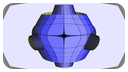
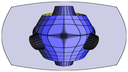
publish

diff --git a/_posts/2012-03-17-barrel-distortion.md b/_posts/2012-03-17-barrel-distortion.md
@@ -1,0 +1,90 @@
+---
+layout: page
+tags : [opengl]
+description : "Playing with barrel distortion."
+thumbnail : Distortion-masked.png
+---
+{% include JB/setup %}
+
+**Note: the OpenGL code used to generate these screenshots lives in [this github project](http://github.com/prideout/distortion) for your enjoyment.**
+
+### Fisheye Lens
+
+Barrel distortion simulates a fisheye lens by changing the magnification factor according to polar distance.  Often the magnification is proportional to the squared distance.  Here's a GLSL snippet that performs barrel distortion:
+
+{% highlight glsl %}
+uniform float BarrelPower;
+
+// Given a vec2 in [-1,+1], generate a texture coord in [0,+1]
+vec2 Distort(vec2 p)
+{
+    float theta  = atan(p.y, p.x);
+    float radius = length(p);
+    radius = pow(radius, BarrelPower);
+    p.x = radius * cos(theta);
+    p.y = radius * sin(theta);
+    return 0.5 * (p + 1.0);
+}
+{% endhighlight %}
+
+This function transforms the input into polar coordinates, tweaks the radius, then converts it back to texture space.
+
+In olden times before shaders, barrel distortion could be achieved by simply rendering the scene into a texture, then applying the texture to a 2D grid of vertices.  The grid would look something like this after the pushing around the verts:
+
+[![Screenshot]({{ ASSET_PATH }}/thumbnails/Distortion2.png)](https://github.com/prideout/distortion/raw/master/media/UniformResult.png)
+
+Here's the source image:
+
+[![Screenshot]({{ ASSET_PATH }}/thumbnails/Distortion1.png)](https://github.com/prideout/distortion/raw/master/media/OriginalScene.png)
+
+One issue with this approach is poor sampling at high magnification, resulting in fuzziness towards the center.  The same problem crops up when performing distortion in the fragment shader.
+
+The fuzziness can be improved somewhat with a custom high-quality filter (e.g., Gaussian) in the fragment shader, instead of relying on the crude bilinear filtering that the hardware provides.
+
+### Vertex-Based Techniques
+
+Another possibility is performing distortion in the vertex shader.  This gives a clean result, although coarsely-tessellated models will have straight edges, and they'll suffer from snapping artifacts during animation.  Here's a test of vertex shader distortion:
+
+[![Screenshot]({{ ASSET_PATH }}/thumbnails/Distortion3.png)](https://github.com/prideout/distortion/raw/master/media/VertexWarpingResult.png)
+
+On a modern GPU we can employ a simple tessellation shader, performing distortion in the subdivided mesh.  This allows for curved edges:
+
+[![Screenshot]({{ ASSET_PATH }}/thumbnails/Distortion4.png)](https://github.com/prideout/distortion/raw/master/media/TessWarpingResult.png)
+
+### Tiled Rendering
+
+If you're stuck with texture-based deformation and you need to improve the sampling rate at any cost, one crazy idea is to use tiled rendering.  This is a technique often used for offline rendering -- it renders the scene in many passes, snipping out a portion of the viewing frustum at each pass using a special projection matrix.
+
+To help with sampling issues in barrel distortion, each off-screen tile has the same resolution, but the viewport sizes vary according to distance-from-center, as visualized here:
+
+[![Screenshot]({{ ASSET_PATH }}/thumbnails/Distortion5.png)](https://github.com/prideout/distortion/raw/master/media/NonuniformGrid.png)
+
+The projection matrix magic for snipping out a portion of the viewing frustum is the same as a *pick matrix*:
+
+{% highlight cpp %}
+// x and y specify the center of a picking region in window coordinates
+// width and height specify the size of the picking region in window coordinates
+// viewport is what's returned by glGetIntegerv(GL_VIEWPORT, ...)
+Matrix4 M4PickMatrix(GLfloat x, GLfloat y, GLfloat width, GLfloat height, GLint* viewport)
+{
+    float sx = viewport[2] / width;
+    float sy = viewport[3] / height;
+    float tx = (viewport[2] + 2.f * (viewport[0] - x)) / width;
+    float ty = (viewport[3] + 2.f * (viewport[1] - y)) / height;
+    Matrix4 m;
+    m.col0.x = sx; m.col0.y = 0.f; m.col0.z = 0.f; m.col0.w = tx;
+    m.col1.x = 0.f; m.col1.y = sy; m.col1.z = 0.f; m.col1.w = ty;
+    m.col2.x = 0.f; m.col2.y = 0.f; m.col2.z = 1.f; m.col2.w = 0.f;
+    m.col3.x = 0.f; m.col3.y = 0.f; m.col3.z = 0.f; m.col3.w = 1.f;
+    return m;
+}
+{% endhighlight %}
+
+Using tiled rendering to deal with sampling artifacts is crazy though.  If you really want to avoid bad sampling, you should probably simply go with a vertex-based approach.  Feel free to steal from my code:
+
+{% assign GITHUB_PATH = 'https://github.com/prideout/distortion/blob/master' %}
+
+*   [TessWarping.glsl]({{GITHUB_PATH}}/TessWarping.glsl), [TessWarping.c]({{GITHUB_PATH}}/TessWarping.c)
+*   [VertexWarping.glsl]({{GITHUB_PATH}}/VertexWarping.glsl), [VertexWarping.c]({{GITHUB_PATH}}/VertexWarping.c)
+
+Have fun!

diff --git a/_posts/BarrelDistortion.md b/_posts/BarrelDistortion.md
@@ -1,0 +1,1 @@
+2012-03-17-barrel-distortion.md
